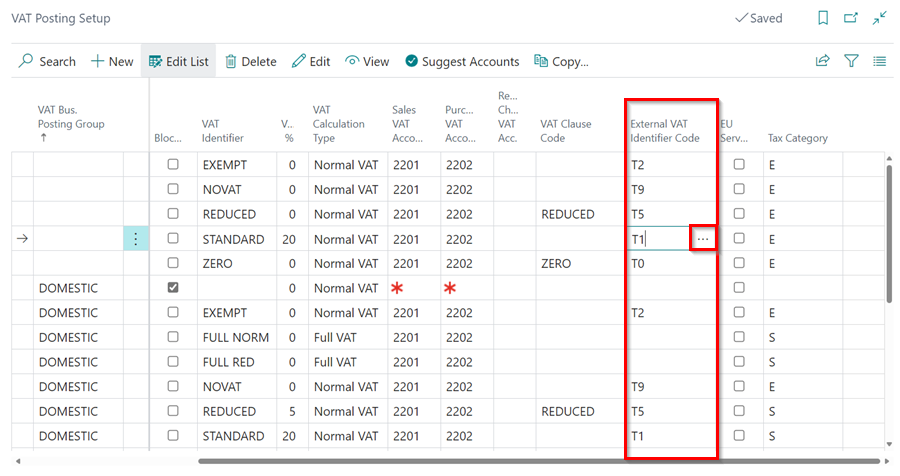
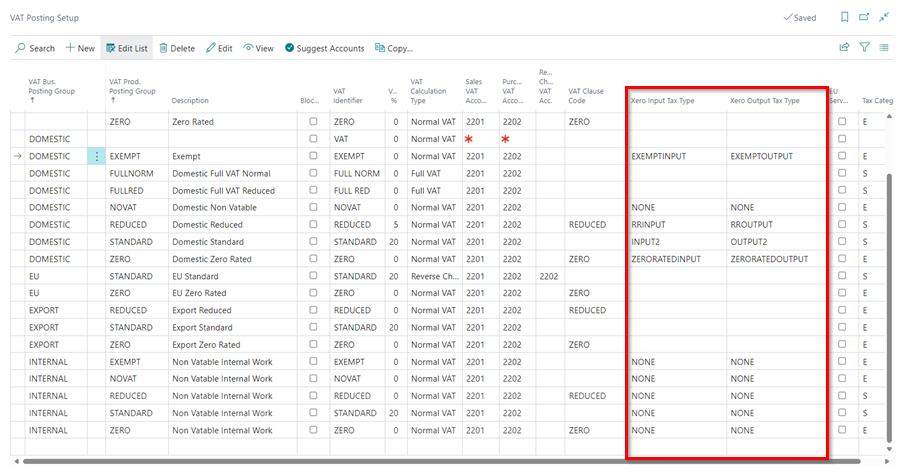
xero integration

diff --git a/docs/xero-api-integration.md b/docs/xero-api-integration.md
@@ -12,7 +12,8 @@ title: Xero API Integration Setup
 3. [Integrate Payment Methods](#integrate-payment-methods)
 4. [Integrate VAT Posting](#integrate-vat-posting)
 5. [How to run the export](#how-to-run-the-export)
-6. [Adding Tracking Categories in Xero](#adding-tracking-categories-in-xero)
+6. [Setting Up External Accountancy Numbers for Customers and Vendors](#setting-up-external-accountancy-numbers-for-customers-and-vendors)
+7. [Adding Tracking Categories in Xero](#adding-tracking-categories-in-xero)
 
 
 ### What you can export via the Xero API
@@ -66,21 +67,29 @@ Garage Hive allows you to export your data to Xero via an API. You can export th
 1. Copy the client id and paste it into Garage Hive in the **Xero Client Id** field under **Xero** FastTab.
 1. Then choose **Generate a Secret**, copy it, and enter it into Garage Hive in the **Xero Client Secret** field.
 
-     ![](media/xero-2-orth-app-2.png)
+   **Xero App**
 
-     ![](media/xero-2-orth-app2.png)
+      ![](media/xero-2-orth-app-2.png)
 
-     ![](media/xero-2-orth-app3.png) 
+      ![](media/xero-2-orth-app2.png)
 
-1. Now, under Garage Hive's **Accountancy Integration Setup**, from the menu bar, choose **Actions**, then **Xero**, and lastly **Authorise**.
+   **Garage Hive**
+
+      ![](media/xero-2-orth-app3.png) 
+
+1. Now, under Garage Hive's **Accountancy Integration Setup**, from the menu bar, choose **Actions**, followed by **Xero**, and then **Authorise**.
 
      ![](media/xero-2-orth-app-3.png)
 
-1.  You will be redirected to the **Xero Website** and prompted to select **Allow Access** before a successful integration is confirmed.
+1. You will be redirected to the **Xero Website** and prompted to select **Allow Access** before a successful integration is confirmed.
 
-     ![](media/xero-2-orth-app-4.png)
+   **Allow Access**
 
-     ![](media/xero-2-orth-app-5.png)
+      ![](media/xero-2-orth-app-4.png)
+
+   **Integration Successful**
+
+      ![](media/xero-2-orth-app-5.png)
 
 [Go back to top](#top)
 
@@ -117,10 +126,31 @@ To integrate the VAT posting in your system:
 
    ![](media/garagehive-xero-vat-posting1.png)
 
-2. In the **External VAT Identifier Code** column, click on the three dots to select the corresponding code for the **VAT Posting** that you use in your external system.
+2. In the **Xero Input Tax Type** and **Xero Output Tax Type** columns, the setup as shown below for the **VAT Bus. Posting Groups**.
 
    ![](media/garagehive-xero-vat-posting2.png)
    
+[Go back to top](#top)
+
+### Setting Up External Accountancy Numbers for Customers and Vendors
+1. To set up the external accountancy numbers for customers and vendors, return to the **Accountancy Integration Setup** page in Garage Hive.
+
+   ![](media/garagehive-xero-external-accountancy-numbers1.png)
+
+2. Click on **Init Customers** action to initiate the setup of customer external accountancy numbers, and **Init Vendors** to initiate the setup of vendor external accountancy numbers. Then, click **Yes** when prompted.
+
+   ![](media/garagehive-xero-external-accountancy-numbers2.png)
+
+3. The **External System No.** field in all the customer and vendor cards will be filled with the generated numbers.
+
+   **Customer**
+
+      ![](media/garagehive-xero-external-accountancy-numbers3.png)
+   
+   **Vendor**
+
+      ![](media/garagehive-xero-external-accountancy-numbers4.png)
+
 [Go back to top](#top)
 
 ### How to run the export 
